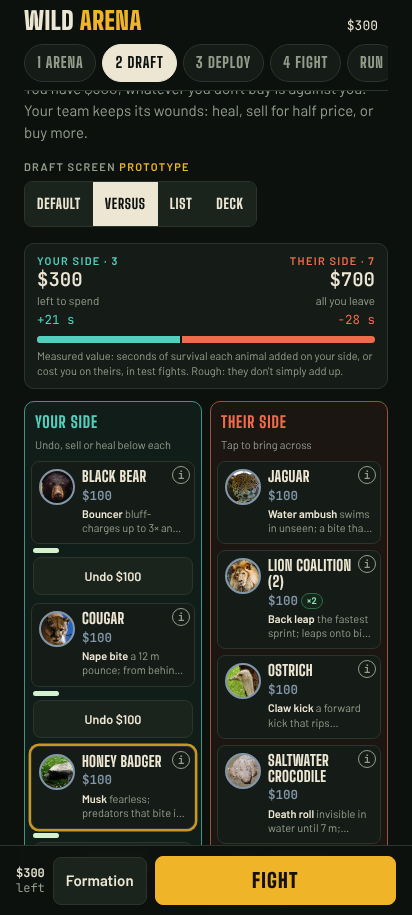
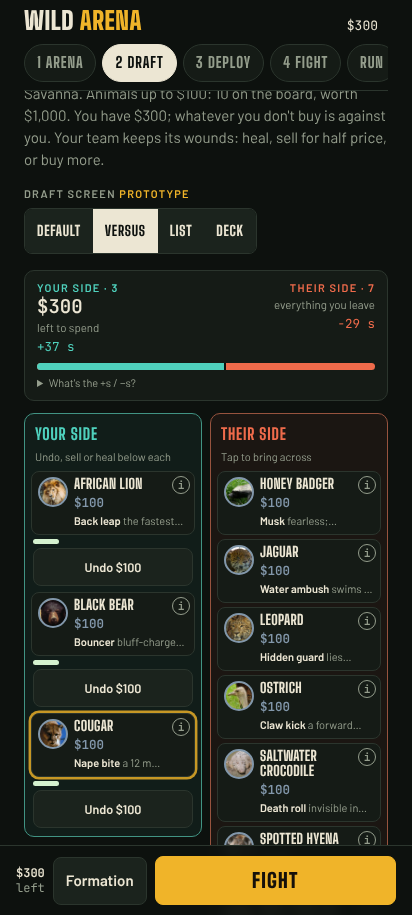
Versus draft: your budget left up top, no money on their side (owner); compact tiles (one-line signature, smaller faces): long-team scroll on a phone 775 -> ~600 px; the +s/-s note folds away
Claude-Session: https://claude.ai/code/session_01L2JvfUwxunjk4yQsnvm84a

Changed region(s): [[0.0583, 0.0918, 0.932, 0.9486], [0.5243, 0.2142, 0.5825, 0.2754]]

diff --git a/index.html b/index.html
@@ -4552,11 +4552,12 @@ function duiScore(note){
   const mv = Math.round(mine.reduce((s, id) => s + Math.max(0, V(id).mine), 0)), tv = Math.round(theirs.reduce((s, id) => s + Math.max(0, -V(id).theirs), 0));
   const cnt = ids => ids.length, $$ = ids => ids.reduce((s, id) => s + A.BY_ID[id].price, 0);
   const share = mv + tv ? mv / (mv + tv) : .5;
-  const money = S.prog ? `<b>$${S.prog.money.toLocaleString()}</b><span class="sub">left to spend</span>` : `<b>$${spent().toLocaleString()}</b><span class="sub">of $${BUDGET.toLocaleString()} · $${duiLeft().toLocaleString()} left</span>`;
+  // owner (Oct 27): the money that matters is your budget left; their side shows no money
+  const money = S.prog ? `<b>$${S.prog.money.toLocaleString()}</b><span class="sub">left to spend</span>` : `<b>$${duiLeft().toLocaleString()}</b><span class="sub">left of $${BUDGET.toLocaleString()}</span>`;
   return `<div class="duiscore"><div class="sd you"><span class="label">Your side · ${cnt(mine)}</span>${money}<span class="v" title="Measured value">+${mv} s</span></div>`
-    + `<div class="sd foe"><span class="label">Their side · ${cnt(theirs)}</span><b>$${$$(theirs).toLocaleString()}</b><span class="sub">all you leave${S.prog && S.prog.premium ? ', + premium' : ''}</span><span class="v" title="Measured value">−${tv} s</span></div>`
+    + `<div class="sd foe"><span class="label">Their side · ${cnt(theirs)}</span><span class="sub">everything you leave${S.prog && S.prog.premium ? ', + premium' : ''}</span><span class="v" title="Measured value">−${tv} s</span></div>`
     + `<div class="tug" title="Measured value, yours vs theirs"><i style="width:${Math.round(share * 100)}%"></i><b></b></div>`
-    + (note ? `<div class="duinote">Measured value: seconds of survival each animal added on your side, or cost you on theirs, in test fights. Rough: they don't simply add up.</div>` : '')
+    + (note ? `<details class="duinote"><summary>What's the +s / −s?</summary>Measured value: seconds of survival each animal added on your side, or cost you on theirs, in test fights. Rough: they don't simply add up.</details>` : '')
     + `<div class="duimsg" aria-live="polite">${esc(DUI.msg)}</div></div>`;
 }
 const duiSig = a => { const s = sigOf(a); return s ? `<b>${esc(s[0])}</b> ${esc(s[1])}` : esc(a.style); };
@@ -4749,6 +4750,7 @@ const DUI_CSS = `
 .duiscore .tug{grid-column:1/-1;display:flex;height:7px;border-radius:4px;overflow:hidden;background:var(--foe);margin-top:4px}
 .duiscore .tug i{display:block;background:var(--you);border-right:2px solid var(--bg)}
 .duinote{grid-column:1/-1;font-size:11px;line-height:1.35;color:var(--muted);margin-top:3px}
+.duinote summary{cursor:pointer;color:var(--muted)}
 .duimsg{grid-column:1/-1;font-size:12.5px;color:var(--gold);min-height:0}
 .duimsg:empty{display:none}
 .vempty{margin:4px 2px;font-size:12.5px;color:var(--muted)}
@@ -4756,20 +4758,20 @@ const DUI_CSS = `
 .vs{display:grid;grid-template-columns:minmax(0,1fr) minmax(0,1fr);gap:8px;align-items:start}
 .vcol{border-radius:var(--r);padding:8px 6px 6px;display:flex;flex-direction:column;gap:4px;min-width:0;min-height:140px}
 .vcol h3{font-size:16px;padding-inline:4px}
-.vcol .vh{margin:0 4px 4px;font-size:11px;color:var(--muted)}
+.vcol .vh{margin:0 4px 2px;font-size:11px;color:var(--muted)}
 .vcol.you{border:1.5px solid color-mix(in srgb, var(--you) 60%, var(--line));background:color-mix(in srgb, var(--you) 6%, var(--bg))}
 .vcol.you h3{color:var(--you)}
 .vcol.foe{border:1.5px solid color-mix(in srgb, var(--foe) 55%, var(--line));background:color-mix(in srgb, var(--foe) 6%, var(--bg))}
 .vcol.foe h3{color:var(--foe)}
-.vlist{display:grid;grid-template-columns:minmax(0,1fr);gap:6px}
+.vlist{display:grid;grid-template-columns:minmax(0,1fr);gap:4px}
 .vt{position:relative;min-width:0}
-.vtm{width:100%;display:grid;grid-template-columns:36px minmax(0,1fr);gap:7px;align-items:start;text-align:left;background:var(--panel);border:1px solid var(--line);border-radius:8px;padding:7px 7px 8px;min-height:64px}
-.vtm .tok{width:36px!important;height:36px!important}
+.vtm{width:100%;display:grid;grid-template-columns:30px minmax(0,1fr);gap:6px;align-items:start;text-align:left;background:var(--panel);border:1px solid var(--line);border-radius:8px;padding:5px 6px 6px;min-height:48px}
+.vtm .tok{width:30px!important;height:30px!important}
 .vtb{display:flex;flex-direction:column;gap:2px;min-width:0}
-.vtn{font-family:var(--display);font-weight:800;font-size:15px;line-height:1.05;text-transform:uppercase;letter-spacing:.02em;overflow-wrap:anywhere;padding-right:16px}
+.vtn{font-family:var(--display);font-weight:800;font-size:14px;line-height:1.05;text-transform:uppercase;letter-spacing:.02em;overflow-wrap:anywhere;padding-right:16px}
 .vtl{display:flex;flex-wrap:wrap;gap:3px;align-items:center}
 .vtl .bdg{font-size:9.5px;padding:0 5px}
-.vts{font-size:11px;line-height:1.3;color:var(--muted);display:-webkit-box;-webkit-line-clamp:2;-webkit-box-orient:vertical;overflow:hidden}
+.vts{font-size:11px;line-height:1.3;color:var(--muted);display:-webkit-box;-webkit-line-clamp:1;-webkit-box-orient:vertical;overflow:hidden}
 .vts b{color:var(--fg)}
 .vt.cant .vtm{opacity:.42}
 .vt.prem .vtm{border-color:var(--foe)}

diff --git a/ui.js b/ui.js
@@ -1593,11 +1593,12 @@ function duiScore(note){
   const mv = Math.round(mine.reduce((s, id) => s + Math.max(0, V(id).mine), 0)), tv = Math.round(theirs.reduce((s, id) => s + Math.max(0, -V(id).theirs), 0));
   const cnt = ids => ids.length, $$ = ids => ids.reduce((s, id) => s + A.BY_ID[id].price, 0);
   const share = mv + tv ? mv / (mv + tv) : .5;
-  const money = S.prog ? `<b>$${S.prog.money.toLocaleString()}</b><span class="sub">left to spend</span>` : `<b>$${spent().toLocaleString()}</b><span class="sub">of $${BUDGET.toLocaleString()} · $${duiLeft().toLocaleString()} left</span>`;
+  // owner (Oct 27): the money that matters is your budget left; their side shows no money
+  const money = S.prog ? `<b>$${S.prog.money.toLocaleString()}</b><span class="sub">left to spend</span>` : `<b>$${duiLeft().toLocaleString()}</b><span class="sub">left of $${BUDGET.toLocaleString()}</span>`;
   return `<div class="duiscore"><div class="sd you"><span class="label">Your side · ${cnt(mine)}</span>${money}<span class="v" title="Measured value">+${mv} s</span></div>`
-    + `<div class="sd foe"><span class="label">Their side · ${cnt(theirs)}</span><b>$${$$(theirs).toLocaleString()}</b><span class="sub">all you leave${S.prog && S.prog.premium ? ', + premium' : ''}</span><span class="v" title="Measured value">−${tv} s</span></div>`
+    + `<div class="sd foe"><span class="label">Their side · ${cnt(theirs)}</span><span class="sub">everything you leave${S.prog && S.prog.premium ? ', + premium' : ''}</span><span class="v" title="Measured value">−${tv} s</span></div>`
     + `<div class="tug" title="Measured value, yours vs theirs"><i style="width:${Math.round(share * 100)}%"></i><b></b></div>`
-    + (note ? `<div class="duinote">Measured value: seconds of survival each animal added on your side, or cost you on theirs, in test fights. Rough: they don't simply add up.</div>` : '')
+    + (note ? `<details class="duinote"><summary>What's the +s / −s?</summary>Measured value: seconds of survival each animal added on your side, or cost you on theirs, in test fights. Rough: they don't simply add up.</details>` : '')
     + `<div class="duimsg" aria-live="polite">${esc(DUI.msg)}</div></div>`;
 }
 const duiSig = a => { const s = sigOf(a); return s ? `<b>${esc(s[0])}</b> ${esc(s[1])}` : esc(a.style); };
@@ -1790,6 +1791,7 @@ const DUI_CSS = `
 .duiscore .tug{grid-column:1/-1;display:flex;height:7px;border-radius:4px;overflow:hidden;background:var(--foe);margin-top:4px}
 .duiscore .tug i{display:block;background:var(--you);border-right:2px solid var(--bg)}
 .duinote{grid-column:1/-1;font-size:11px;line-height:1.35;color:var(--muted);margin-top:3px}
+.duinote summary{cursor:pointer;color:var(--muted)}
 .duimsg{grid-column:1/-1;font-size:12.5px;color:var(--gold);min-height:0}
 .duimsg:empty{display:none}
 .vempty{margin:4px 2px;font-size:12.5px;color:var(--muted)}
@@ -1797,20 +1799,20 @@ const DUI_CSS = `
 .vs{display:grid;grid-template-columns:minmax(0,1fr) minmax(0,1fr);gap:8px;align-items:start}
 .vcol{border-radius:var(--r);padding:8px 6px 6px;display:flex;flex-direction:column;gap:4px;min-width:0;min-height:140px}
 .vcol h3{font-size:16px;padding-inline:4px}
-.vcol .vh{margin:0 4px 4px;font-size:11px;color:var(--muted)}
+.vcol .vh{margin:0 4px 2px;font-size:11px;color:var(--muted)}
 .vcol.you{border:1.5px solid color-mix(in srgb, var(--you) 60%, var(--line));background:color-mix(in srgb, var(--you) 6%, var(--bg))}
 .vcol.you h3{color:var(--you)}
 .vcol.foe{border:1.5px solid color-mix(in srgb, var(--foe) 55%, var(--line));background:color-mix(in srgb, var(--foe) 6%, var(--bg))}
 .vcol.foe h3{color:var(--foe)}
-.vlist{display:grid;grid-template-columns:minmax(0,1fr);gap:6px}
+.vlist{display:grid;grid-template-columns:minmax(0,1fr);gap:4px}
 .vt{position:relative;min-width:0}
-.vtm{width:100%;display:grid;grid-template-columns:36px minmax(0,1fr);gap:7px;align-items:start;text-align:left;background:var(--panel);border:1px solid var(--line);border-radius:8px;padding:7px 7px 8px;min-height:64px}
-.vtm .tok{width:36px!important;height:36px!important}
+.vtm{width:100%;display:grid;grid-template-columns:30px minmax(0,1fr);gap:6px;align-items:start;text-align:left;background:var(--panel);border:1px solid var(--line);border-radius:8px;padding:5px 6px 6px;min-height:48px}
+.vtm .tok{width:30px!important;height:30px!important}
 .vtb{display:flex;flex-direction:column;gap:2px;min-width:0}
-.vtn{font-family:var(--display);font-weight:800;font-size:15px;line-height:1.05;text-transform:uppercase;letter-spacing:.02em;overflow-wrap:anywhere;padding-right:16px}
+.vtn{font-family:var(--display);font-weight:800;font-size:14px;line-height:1.05;text-transform:uppercase;letter-spacing:.02em;overflow-wrap:anywhere;padding-right:16px}
 .vtl{display:flex;flex-wrap:wrap;gap:3px;align-items:center}
 .vtl .bdg{font-size:9.5px;padding:0 5px}
-.vts{font-size:11px;line-height:1.3;color:var(--muted);display:-webkit-box;-webkit-line-clamp:2;-webkit-box-orient:vertical;overflow:hidden}
+.vts{font-size:11px;line-height:1.3;color:var(--muted);display:-webkit-box;-webkit-line-clamp:1;-webkit-box-orient:vertical;overflow:hidden}
 .vts b{color:var(--fg)}
 .vt.cant .vtm{opacity:.42}
 .vt.prem .vtm{border-color:var(--foe)}
